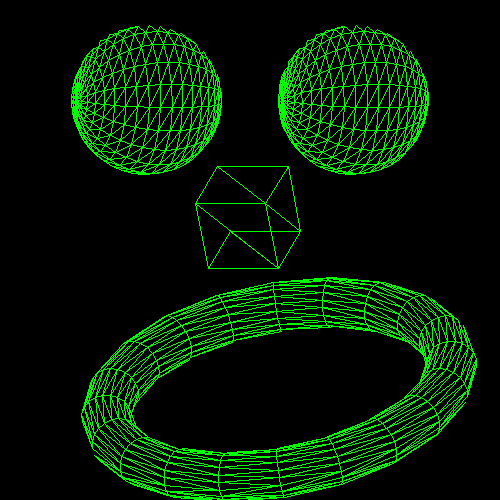
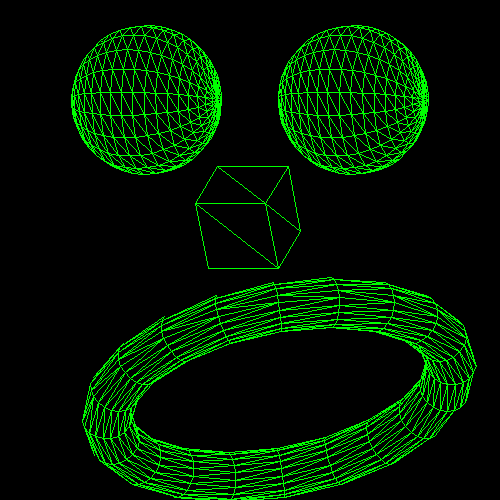
fixed

Changed region(s): [[0.15, 0.54, 0.96, 1.0], [0.54, 0.03, 0.87, 0.36], [0.15, 0.03, 0.45, 0.36]]

diff --git a/draw.py b/draw.py
@@ -38,21 +38,22 @@ def add_box( polygons, x, y, z, width, height, depth ):
     y1 = y - height
     z1 = z - depth
 
-    #front
+    #top
     add_polygon(polygons, x, y, z, x1, y, z, x, y, z1)
     add_polygon(polygons, x1, y ,z, x1, y, z1, x, y, z1)
+    #front
     add_polygon(polygons, x, y, z, x, y1, z, x1, y1, z)
     add_polygon(polygons, x, y, z, x1, y1, z, x1, y, z)
-
-    #back
+    #side left
     add_polygon(polygons, x, y, z, x, y1, z1, x, y1, z)
     add_polygon(polygons, x, y, z, x, y, z1, x, y1, z1)
-    add_polygon(polygons, x, y1, z, x1, y1, z, x, y1, z1)
-    add_polygon(polygons, x1, y1, z, x1, y1, z1, x, y1, z1)
-
-    #sides
+    #bottom
+    add_polygon(polygons, x, y1, z, x, y1, z1, x1, y1, z)
+    add_polygon(polygons, x1, y1, z, x, y1, z1, x1, y1, z1)
+    #side right
     add_polygon(polygons, x1, y, z, x1, y1, z, x1, y1, z1)
     add_polygon(polygons, x1, y, z, x1, y1, z1, x1, y, z1)
+    #back
     add_polygon(polygons, x, y, z1, x1, y1, z1, x, y1, z1)
     add_polygon(polygons, x, y, z1, x1, y, z1, x1, y1, z1)
 
@@ -65,18 +66,47 @@ def add_sphere(polygons, cx, cy, cz, r, step ):
     longt_stop = step
 
     step+= 1
+    for longt in range(longt_start, longt_stop+1):
+        index = longt
+        add_point(points, points[index][0],
+                 points[index][1],
+                 points[index][2])
+
     for lat in range(lat_start, lat_stop):
-        for longt in range(longt_start, longt_stop+1):
+        for longt in range(longt_start, longt_stop):
             index = lat * step + longt
-            add_polygon(polygons, points[index][0],
-                     points[index][1],
-                     points[index][2],
-                     points[index-step+1][0],
-                     points[index-step+1][1],
-                     points[index-step+1][2],
-                     points[index-step][0],
-                     points[index-step][1],
-                     points[index-step][2] )
+            if longt == 0:
+                add_polygon(polygons,
+                            points[index][0],
+                            points[index][1],
+                            points[index][2],
+                            points[index + 1][0],
+                            points[index + 1][1],
+                            points[index + 1][2],
+                            points[index + step + 1][0],
+                            points[index + step + 1][1],
+                            points[index + step + 1][2])
+            else:
+                add_polygon(polygons,
+                            points[index][0],
+                            points[index][1],
+                            points[index][2],
+                            points[index + 1][0],
+                            points[index + 1][1],
+                            points[index + 1][2],
+                            points[index + step][0],
+                            points[index + step][1],
+                            points[index + step][2])
+                add_polygon(polygons,
+                            points[index + 1][0],
+                            points[index + 1][1],
+                            points[index + 1][2],
+                            points[index + step + 1][0],
+                            points[index + step + 1][1],
+                            points[index + step + 1][2],
+                            points[index + step][0],
+                            points[index + step][1],
+                            points[index + step][2])
 
 def generate_sphere( cx, cy, cz, r, step ):
     points = []
@@ -106,7 +136,11 @@ def add_torus(polygons, cx, cy, cz, r0, r1, step ):
     lat_stop = step
     longt_start = 0
     longt_stop = step
-
+    for longt in range(longt_start, longt_stop+1):
+        index = longt
+        add_point(points, points[index][0],
+                 points[index][1],
+                 points[index][2])
     for lat in range(lat_start, lat_stop):
         for longt in range(longt_start, longt_stop):
             index = lat * step + longt
@@ -114,12 +148,12 @@ def add_torus(polygons, cx, cy, cz, r0, r1, step ):
             add_polygon(polygons, points[index][0],
                      points[index][1],
                      points[index][2],
-                     points[index-step+1][0],
-                     points[index-step+1][1],
-                     points[index-step+1][2],
-                     points[index-step][0],
-                     points[index-step][1],
-                     points[index-step][2] )
+                     points[index+1][0],
+                     points[index+1][1],
+                     points[index+1][2],
+                     points[index+step][0],
+                     points[index+step][1],
+                     points[index+step][2] )
 
 def generate_torus( cx, cy, cz, r0, r1, step ):
     points = []

diff --git a/main.py b/main.py
@@ -10,4 +10,4 @@ edges = []
 polygons = []
 transform = new_matrix()
 
-parse_file( 'script', edges, polygons, transform, screen, color )
+parse_file( 'script2', edges, polygons, transform, screen, color )
